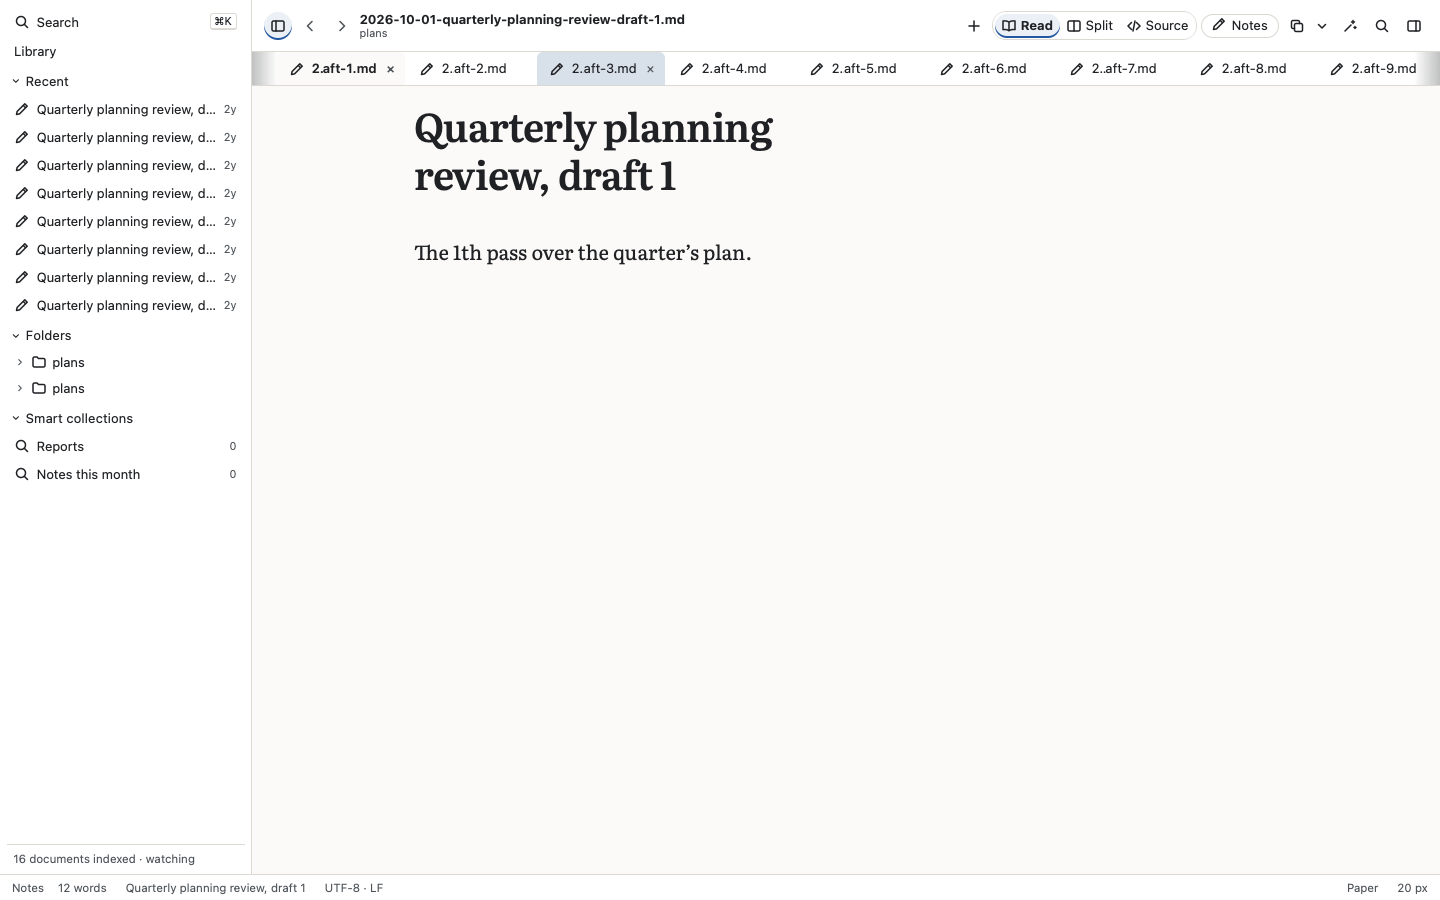
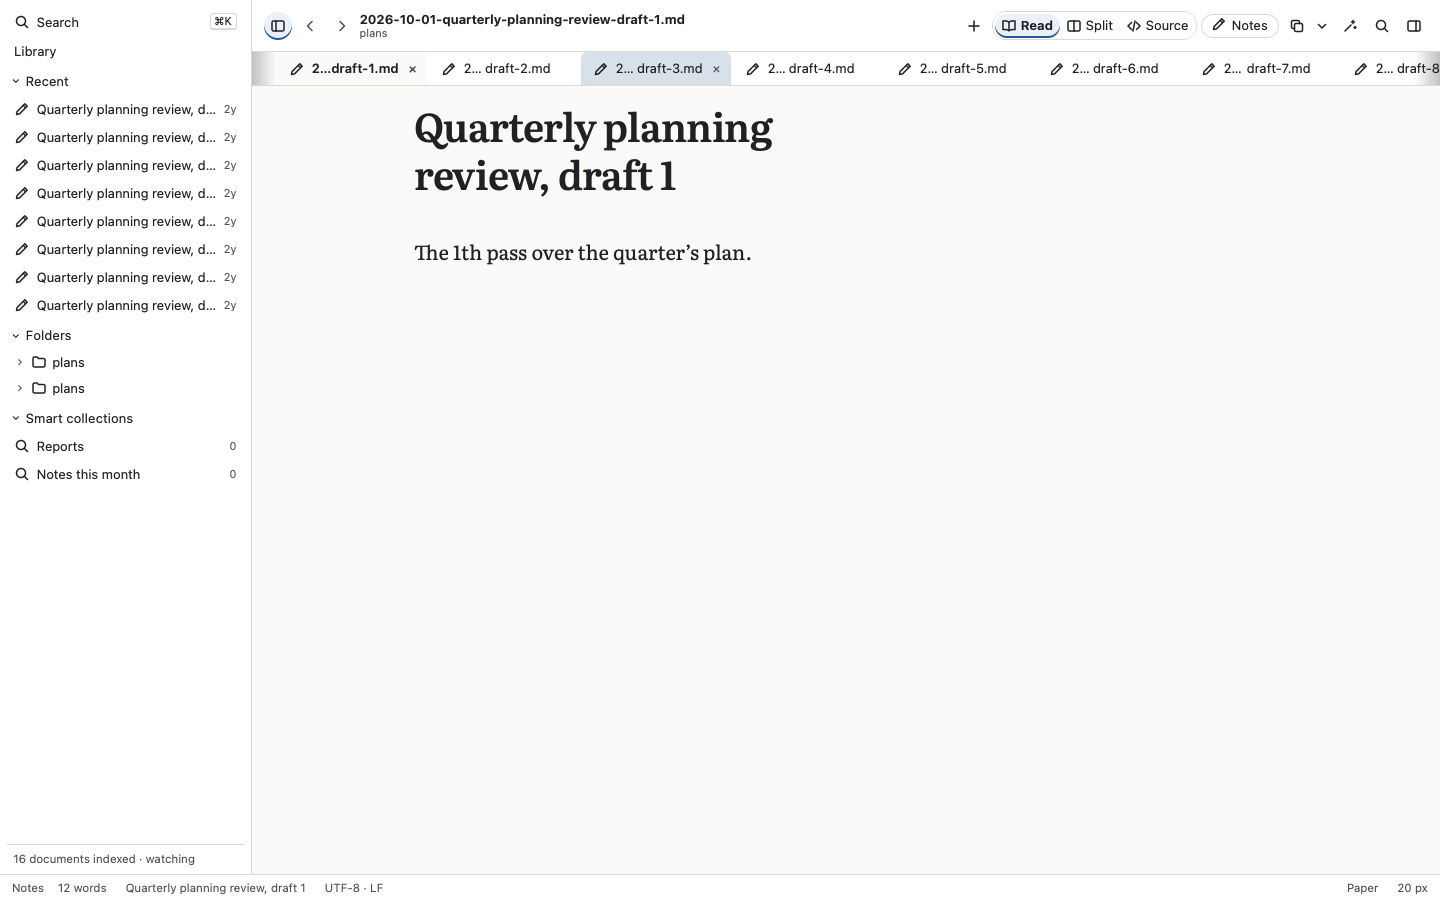
docs(taste-review): refresh the F-107 pairs

Changed region(s): [[0.2188, 0.0311, 0.8125, 0.0933], [0.9375, 0.0622, 1.0, 0.0933], [0.8438, 0.0622, 0.9062, 0.0933]]

diff --git a/docs/taste-review/2026-10-14-f-107/index.html b/docs/taste-review/2026-10-14-f-107/index.html
@@ -32,6 +32,10 @@
         <div><a href="10-tabs-dated-night-app.png"><img src="10-tabs-dated-night-app.png" alt="10-tabs-dated, Night, the app" loading="lazy"></a><a href="10-tabs-dated-night-mock.png"><img src="10-tabs-dated-night-mock.png" alt="10-tabs-dated, Night, the mock" loading="lazy"></a></div>
         <figcaption><span>App</span><span>Mock v2</span><b>Night</b></figcaption>
       </figure>
+      <figure>
+        <div><a href="10-tabs-dated-paper-app.png"><img src="10-tabs-dated-paper-app.png" alt="10-tabs-dated, Paper, the app" loading="lazy"></a><a href="10-tabs-dated-paper-mock.png"><img src="10-tabs-dated-paper-mock.png" alt="10-tabs-dated, Paper, the mock" loading="lazy"></a></div>
+        <figcaption><span>App</span><span>Mock v2</span><b>Paper</b></figcaption>
+      </figure>
   </section>
 </main>
 </body>
